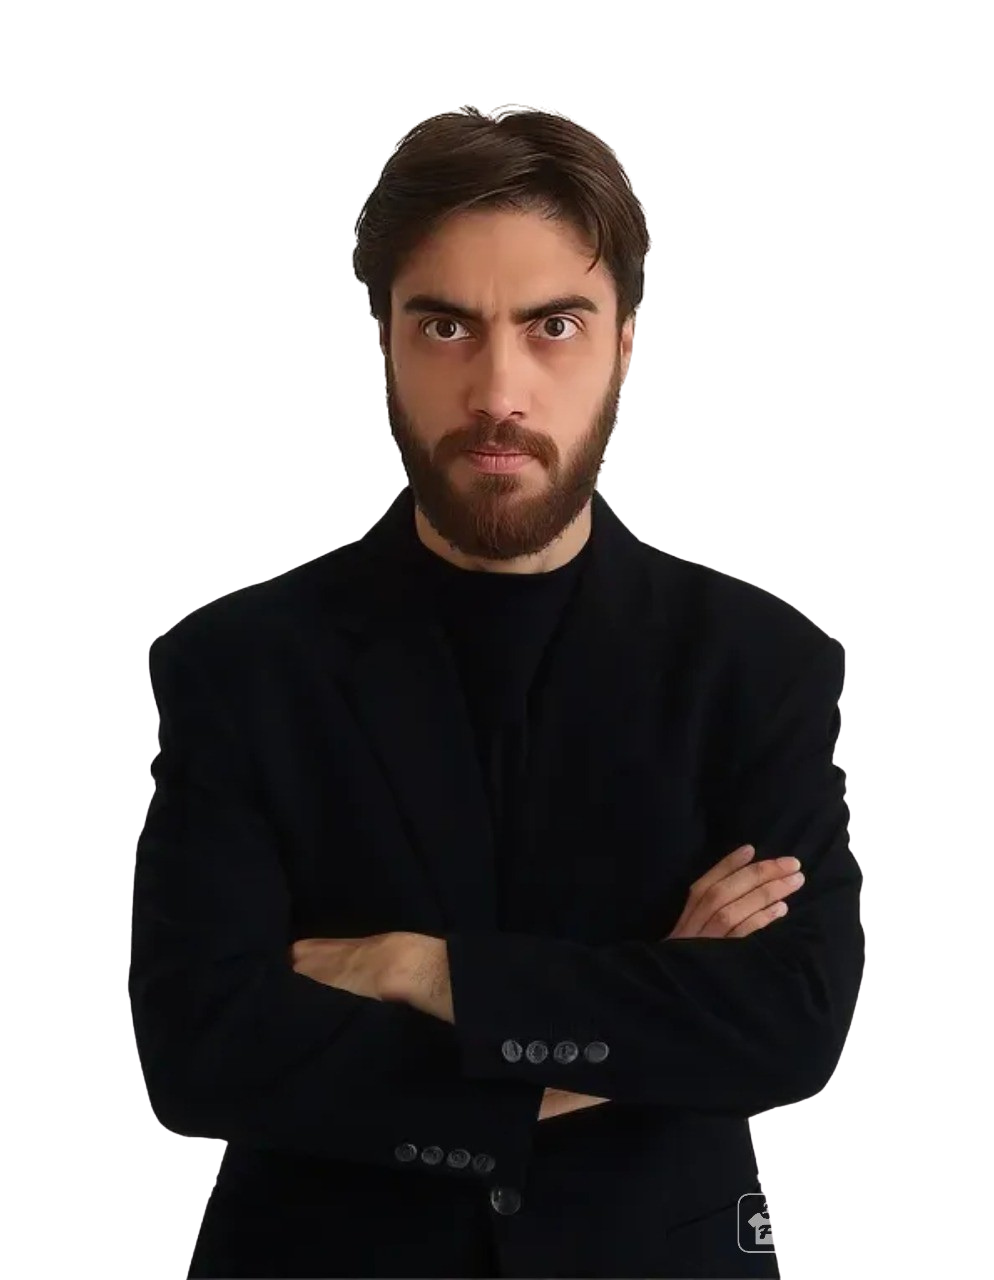
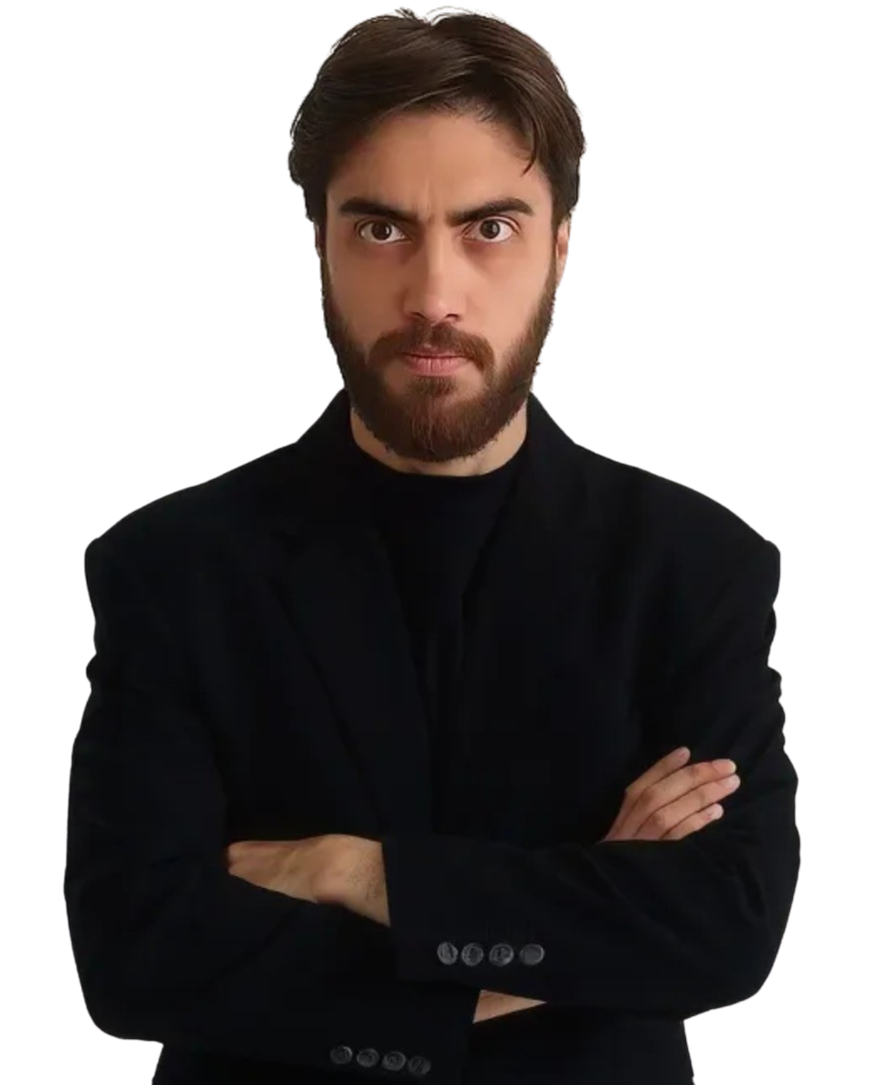
Updated site with client changes

diff --git a/src/pages/Index.tsx b/src/pages/Index.tsx
@@ -108,25 +108,24 @@ Cause of death - Playing it safe in a post AI world
     But it doesn't have to stay dead.<br />Because now we have
   </p>
 
-  <div className="relative w-97 h-97 mx-auto flex items-center justify-center">
-    {/* Smoke layers (pure CSS) */}
-    <div className="absolute inset-0 z-0 smoke-layer pointer-events-none"></div>
+  <div className="relative w-72 h-72 md:w-80 md:h-80 mx-auto flex items-center justify-center">
+  {/* Smoke layers */}
+  <div className="absolute inset-0 z-0 smoke-layer pointer-events-none"></div>
 
-    {/* Photo on top */}
-    <img
-      src="/lovable-uploads/61075f9c-b5a5-4e37-951d-de0442316ae4.png"
-      alt="Dr. Jareer Samad"
-      className="relative z-10 w-full h-full object-contain rounded-lg"
-    />
-  </div>
+  {/* Photo on top */}
+  <img
+    src="/lovable-uploads/61075f9c-b5a5-4e37-951d-de0442316ae4.png"
+    alt="Dr. Jareer Samad"
+    className="relative z-10 w-full h-full object-contain rounded-lg"
+  />
+</div>
+<h3 className="text-5xl font-bold text-white font-sans leading-tight">
+  Jareer Samad
+</h3>
+<h2 className="text-3xl font-medium text-lime-400 font-sans leading-tight">
+  Marketing Exorcist
+</h2>
 
-  <h3 className="text-5xl font-bold text-white mt-6 font-sans tracking-tight">
-    Jareer Samad
-  </h3>
-  <br />
-  <h2 className="text-2xl text-gray-300 mt-2 font-sans tracking-wide">
-   Marketing Exorcist
-  </h2>
 </div>
 
         </div>
@@ -201,7 +200,7 @@ Cause of death - Playing it safe in a post AI world
 </div>
 
     <p className="text-red-400/70 animate-pulse text-lg mt-6">
-      ⚠ Side effects may include actual creativity
+      
     </p>
   </div>
 </section>
